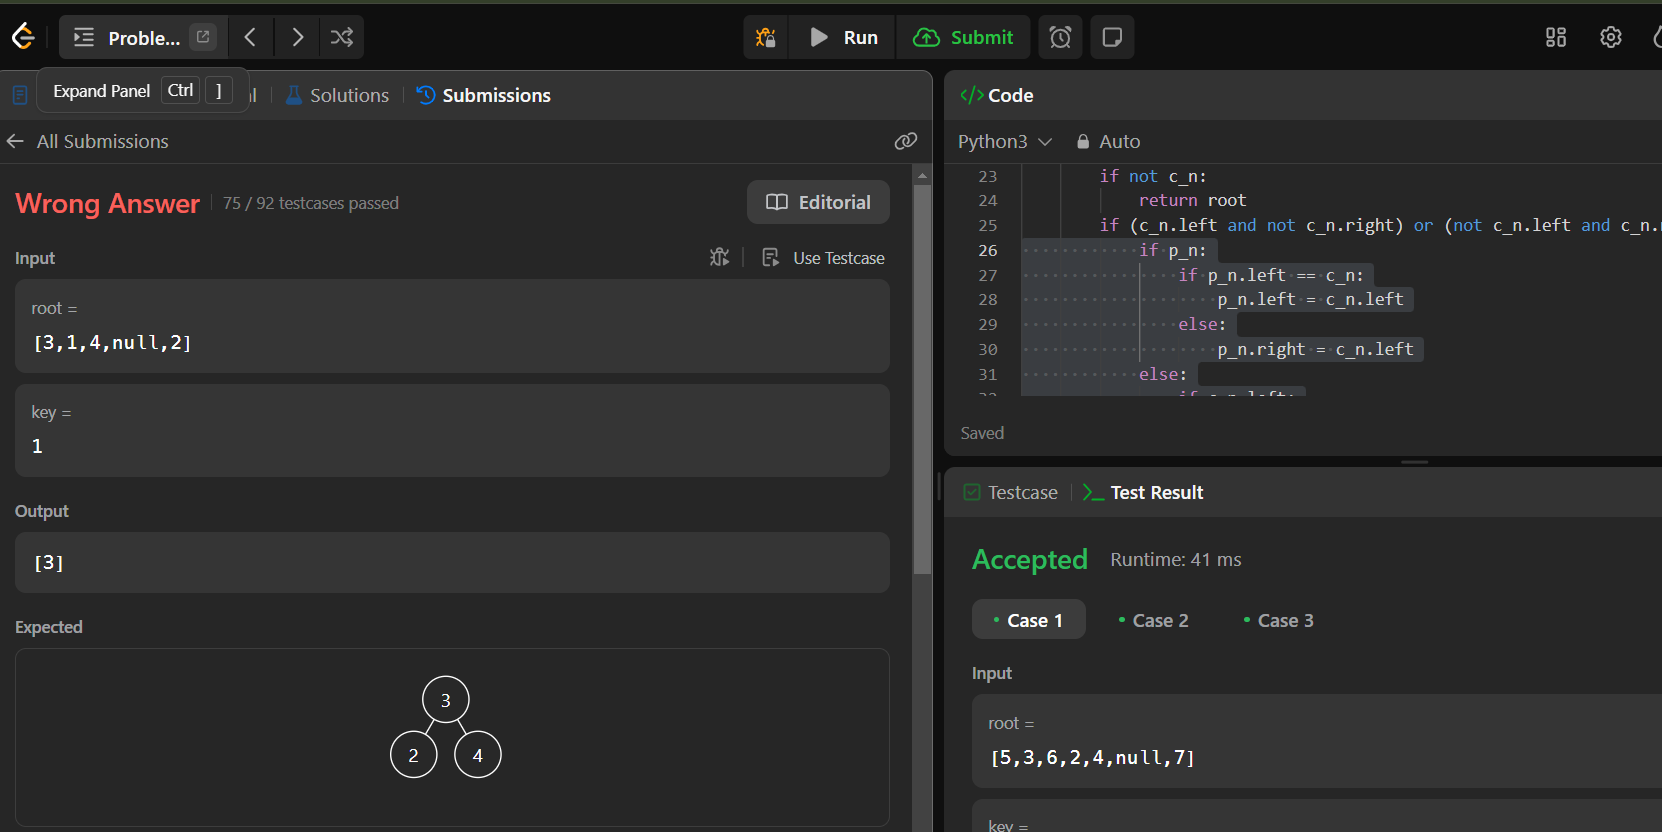
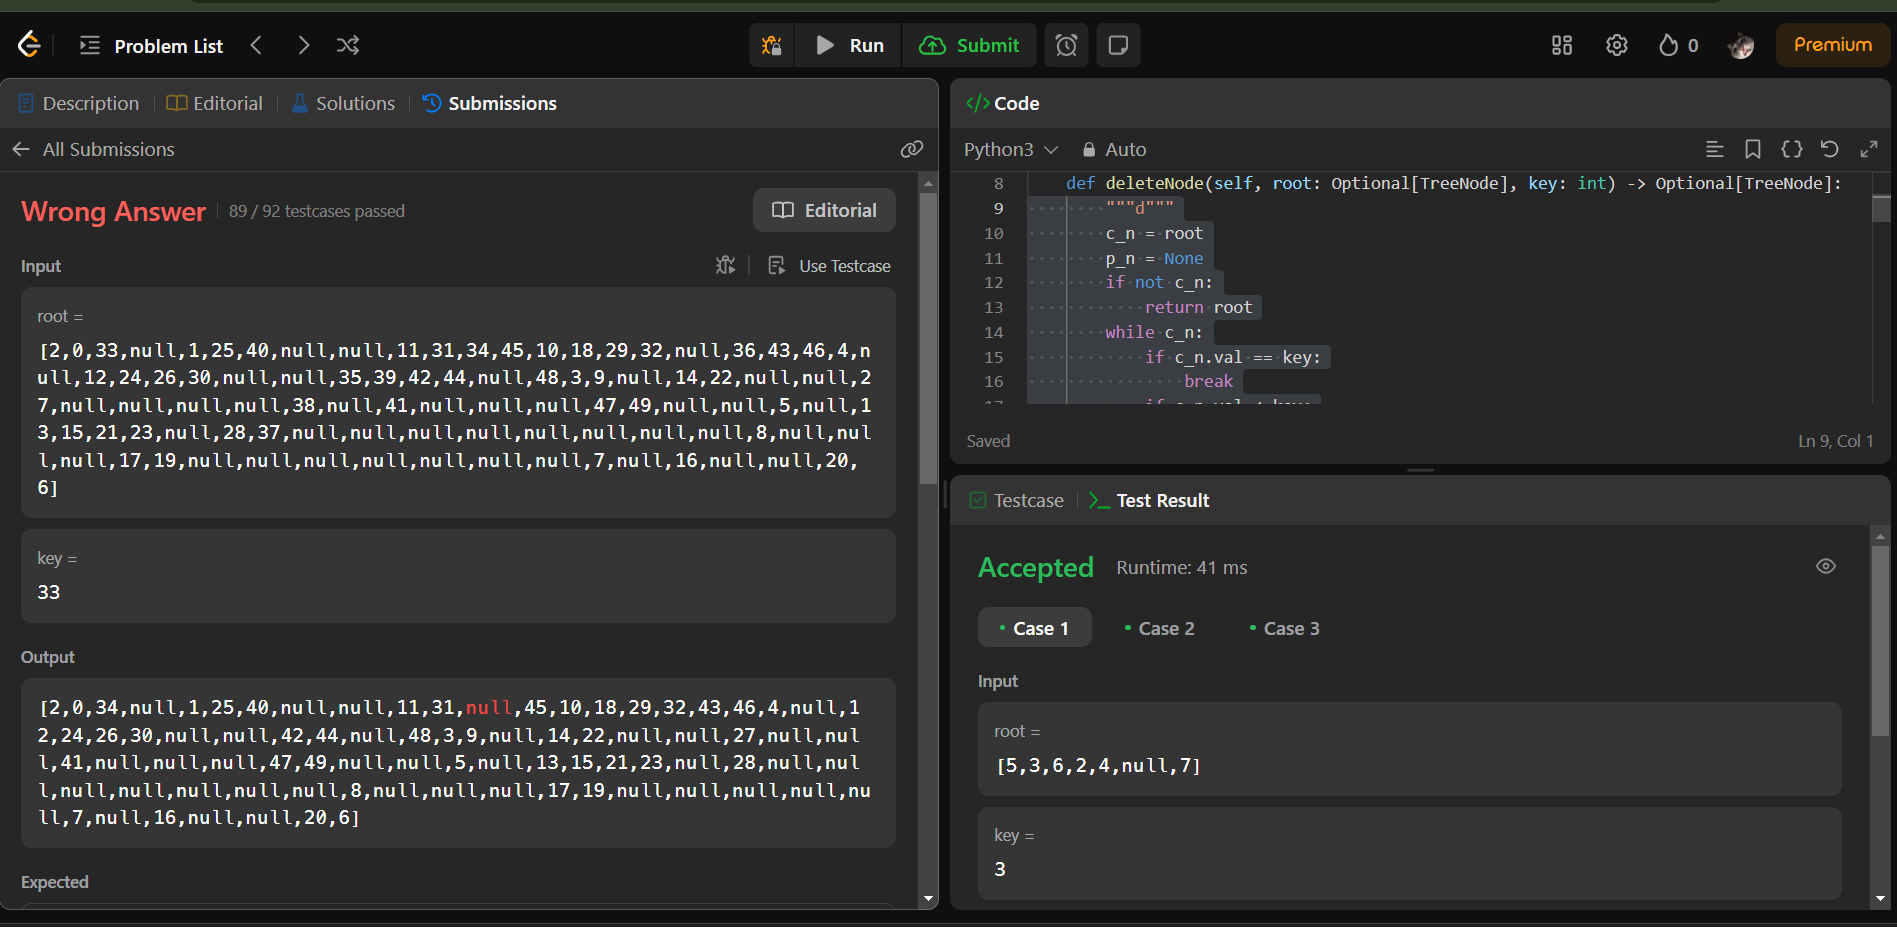
3 min late but better

diff --git a/Delete Node in a BST/answer.py b/Delete Node in a BST/answer.py
@@ -38,11 +38,16 @@ def deleteNode(root, key: int):
         return root
     if (c_n.left and not c_n.right) or (not c_n.left and c_n.right):
         if p_n:
-            
             if p_n.left == c_n:
-                p_n.left = c_n.left
+                if c_n.left:
+                    p_n.left = c_n.left
+                else:
+                    p_n.left = c_n.right
             else:
-                p_n.right = c_n.left
+                if c_n.left:
+                    p_n.right = c_n.left
+                else:
+                    p_n.right = c_n.right
         else:
             if c_n.left:
                 return c_n.left
